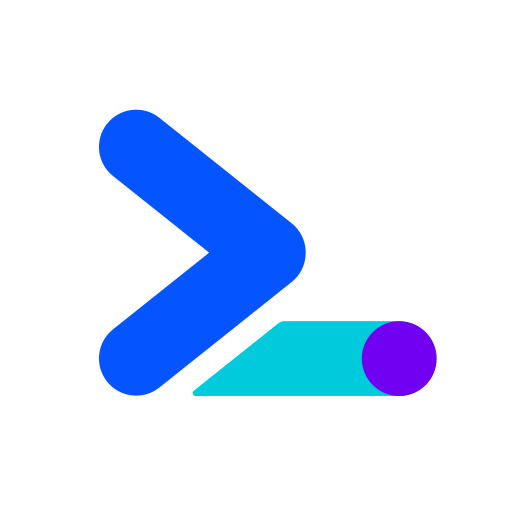
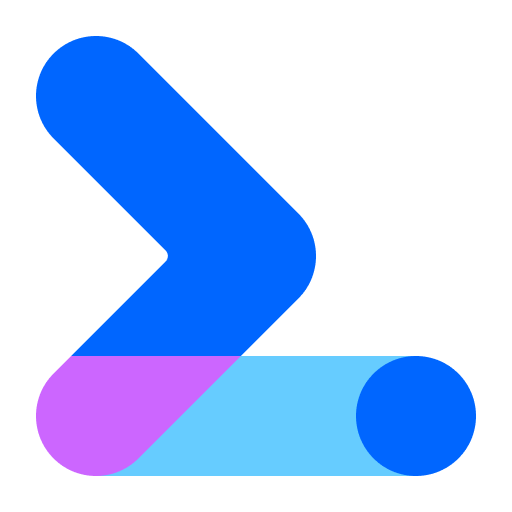
Swap in the new web.dev site thumbnail (#7794)
* Swap in the new thumbnail

* New icons

diff --git a/src/site/_data/site.js b/src/site/_data/site.js
@@ -31,7 +31,7 @@ module.exports = {
   subscribe: 'https://web.dev/newsletter',
   subscribeForm:
     'https://services.google.com/fb/submissions/591768a1-61a6-4f16-8e3c-adf1661539da/',
-  thumbnail: 'image/tcFciHGuF3MxnTr1y5ue01OGLBn2/vU99HKzIf5EUPnzGVPf1.png',
+  thumbnail: 'image/FNkVSAX8UDTTQWQkKftSgGe9clO2/uZ3hQS2EPrA9csOgkoXI.png',
   isBannerEnabled: true,
   banner:
     'Join and donate to <a href="https://devfest.gdg.org.ua/?utm_source=web_dev&utm_medium=banner&utm_content=emea">🇺🇦 DevFest for Ukraine</a>, a charitable tech conference happening June 14–15 supported by Google Developers and Google Cloud.',
